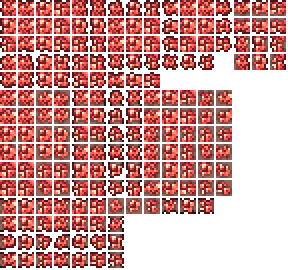
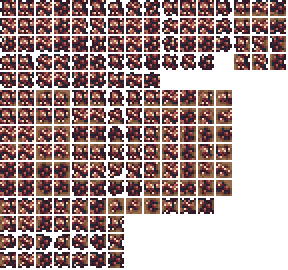
outbreak changes, lienar actuators/relic shard resprites

diff --git a/NPCs/DestinyGlobalNPC.cs b/NPCs/DestinyGlobalNPC.cs
@@ -19,6 +19,8 @@ namespace TheDestinyMod.NPCs
         public bool necroticRot;
         public int highlightedTime;
         public Player necroticApplier;
+        public int outbreakHits;
+        public int outbreakCounter;
 
         public override bool InstancePerEntity => true;
 
@@ -27,6 +29,15 @@ namespace TheDestinyMod.NPCs
             conducted = false;
             stasisFrozen = false;
             necroticRot = false;
+        }
+
+        public override bool PreAI(NPC npc) {
+            if (outbreakCounter > 0) {
+                outbreakCounter--;
+                if (outbreakCounter <= 0)
+                    outbreakHits = 0;
+            }
+            return base.PreAI(npc);
         }
 
         public override void NPCLoot(NPC npc) {
@@ -50,12 +61,18 @@ namespace TheDestinyMod.NPCs
         }
 
         public override bool PreNPCLoot(NPC npc) {
+            bool WormSegmentsAlive() {
+                for (int i = 0; i < Main.maxNPCs; i++) {
+                    NPC check = Main.npc[i];
+                    if (check.active && check.lifeMax > 0 && check.whoAmI != npc.whoAmI && (check.type == NPCID.EaterofWorldsBody || check.type == NPCID.EaterofWorldsHead || check.type == NPCID.EaterofWorldsTail)) {
+                        return true;
+                    }
+                }
+                return false;
+            }
             switch (npc.type) {
                 case NPCID.KingSlime when !NPC.downedSlimeKing:
                 case NPCID.EyeofCthulhu when !NPC.downedBoss1:
-                case NPCID.EaterofWorldsBody when !NPC.downedBoss2:
-                case NPCID.EaterofWorldsHead when !NPC.downedBoss2:
-                case NPCID.EaterofWorldsTail when !NPC.downedBoss2:
                 case NPCID.BrainofCthulhu when !NPC.downedBoss2:
                 case NPCID.QueenBee when !NPC.downedQueenBee:
                 case NPCID.SkeletronHead when !NPC.downedBoss3:
@@ -70,6 +87,13 @@ namespace TheDestinyMod.NPCs
                 case NPCID.CultistBoss when !NPC.downedAncientCultist:
                 case NPCID.MoonLordCore when !NPC.downedMoonlord:
                     Item.NewItem((int)npc.position.X, (int)npc.position.Y, npc.width, npc.height, ModContent.ItemType<Items.ExoticCipher>());
+                    break;
+                case NPCID.EaterofWorldsBody when !NPC.downedBoss2:
+                case NPCID.EaterofWorldsHead when !NPC.downedBoss2:
+                case NPCID.EaterofWorldsTail when !NPC.downedBoss2:
+                    if (!WormSegmentsAlive()) {
+                        Item.NewItem((int)npc.position.X, (int)npc.position.Y, npc.width, npc.height, ModContent.ItemType<Items.ExoticCipher>());
+                    }
                     break;
             }
             if (npc.type == NPCID.EyeofCthulhu && !NPC.downedBoss1) {

diff --git a/Projectiles/Ranged/OutbreakBullet.cs b/Projectiles/Ranged/OutbreakBullet.cs
@@ -2,7 +2,7 @@
 using Terraria;
 using Terraria.ID;
 using Terraria.ModLoader;
-using TheDestinyMod.Buffs;
+using TheDestinyMod.NPCs;
 
 namespace TheDestinyMod.Projectiles.Ranged
 {
@@ -27,10 +27,16 @@ namespace TheDestinyMod.Projectiles.Ranged
         }
 
         public override void OnHitNPC(NPC target, int damage, float knockback, bool crit) {
-            if (!target.friendly && target.damage > 0 && target.life <= 0 && (crit || Main.rand.NextBool(5))) {
-                for (int k = 0; k < 4; k++) {
-                    Vector2 velocity = Main.rand.NextVector2Unit() * Utils.NextFloat(Main.rand, 3f, 5f);
-                    Projectile.NewProjectile(target.position, velocity, ModContent.ProjectileType<SIVANanite>(), 20, 0, Main.LocalPlayer.whoAmI);
+            if (!target.friendly && target.damage > 0) {
+                DestinyGlobalNPC dNPC = target.GetGlobalNPC<DestinyGlobalNPC>();
+                dNPC.outbreakHits++;
+                dNPC.outbreakCounter = 60;
+                if ((crit && target.life <= 0) || dNPC.outbreakHits >= 12) {
+                    dNPC.outbreakHits = 0;
+                    for (int k = 0; k < 4; k++) {
+                        Vector2 velocity = Main.rand.NextVector2Unit() * Utils.NextFloat(Main.rand, 3f, 5f);
+                        Projectile.NewProjectile(target.position, velocity, ModContent.ProjectileType<SIVANanite>(), 20, 0, Main.LocalPlayer.whoAmI);
+                    }
                 }
             }
         }

diff --git a/Items/Weapons/Ranged/OutbreakPerfected.cs b/Items/Weapons/Ranged/OutbreakPerfected.cs
@@ -11,7 +11,7 @@ namespace TheDestinyMod.Items.Weapons.Ranged
     public class OutbreakPerfected : ModItem 
     {
         public override void SetStaticDefaults() {
-            Tooltip.SetDefault("Three round burst\nCreates nanite swarms on critical kills\n\"~directive = KILL while enemies = PRESENT: execute(directive)~\"");
+            Tooltip.SetDefault("Three round burst\nCreates nanite swarms on critical kills and rapid hits\n\"~directive = KILL while enemies = PRESENT: execute(directive)~\"");
         }
 
 		public override void SetDefaults() {
@@ -23,8 +23,8 @@ namespace TheDestinyMod.Items.Weapons.Ranged
 			item.useAnimation = 18;
 			item.useStyle = ItemUseStyleID.HoldingOut;
 			item.noMelee = true;
-			item.knockBack = 6;
-			item.crit = 6;
+			item.knockBack = 0;
+			item.crit = 2;
 			item.value = Item.buyPrice(0, 1, 0, 0);
 			item.rare = ItemRarityID.LightRed;
 			item.UseSound = mod.GetLegacySoundSlot(SoundType.Item, "Sounds/Item/OutbreakPerfected");

diff --git a/Projectiles/SIVANanite.cs b/Projectiles/SIVANanite.cs
@@ -28,6 +28,8 @@ namespace TheDestinyMod.Projectiles
 
         public override void AI() {
 			projectile.localAI[1]++;
+            if (projectile.localAI[1] < 20)
+                return;
 			bool target = projectile.HomeInOnNPC(200f, 15f, false);
 			if (!target && projectile.alpha < 200 && projectile.velocity.Y > 0f) {
                 projectile.velocity.Y--;
@@ -47,6 +49,11 @@ namespace TheDestinyMod.Projectiles
             projectile.rotation += 0.1f;
 			projectile.Center = projectile.Center + Vector2.UnitX.RotatedBy(projectile.rotation, Vector2.Zero) * 0.5f;
 		}
+
+        public override void ModifyDamageHitbox(ref Rectangle hitbox) {
+            if (projectile.localAI[1] < 20)
+                hitbox = Rectangle.Empty;
+        }
 
         public override void PostDraw(SpriteBatch spriteBatch, Color lightColor) {
             Lighting.AddLight(projectile.Center, Color.Red.ToVector3() * 0.55f * Main.essScale);

diff --git a/Tiles/VoGTeleport.cs b/Tiles/VoGTeleport.cs
@@ -13,8 +13,8 @@ namespace TheDestinyMod.Tiles
             Main.tileSolid[Type] = true;
             Main.tileBlockLight[Type] = true;
             Main.tileLighted[Type] = true;
-            minPick = 500;
-            mineResist = 200f;
+            minPick = 50; //500
+            mineResist = 2f; //200
             AddMapEntry(new Color(255, 255, 0));
             soundType = SoundID.Tink;
         }

diff --git a/Items/Weapons/Ranged/GravitonLance.cs b/Items/Weapons/Ranged/GravitonLance.cs
@@ -26,7 +26,7 @@ namespace TheDestinyMod.Items.Weapons.Ranged
 			item.noMelee = true;
 			item.knockBack = 4;
 			item.value = Item.buyPrice(0, 1, 0, 0);
-			item.rare = ItemRarityID.Yellow;
+			item.rare = ItemRarityID.Orange;
 			item.UseSound = mod.GetLegacySoundSlot(SoundType.Item, "Sounds/Item/GravitonLance");
 			item.shoot = 10;
 			item.shootSpeed = 16f;

diff --git a/Items/Weapons/Magic/BorealisMagic.cs b/Items/Weapons/Magic/BorealisMagic.cs
@@ -28,7 +28,7 @@ namespace TheDestinyMod.Items.Weapons.Magic
 			item.noMelee = true;
 			item.knockBack = 4;
 			item.value = Item.buyPrice(0, 1, 0, 0);
-			item.rare = ItemRarityID.Yellow;
+			item.rare = ItemRarityID.Pink;
 			item.UseSound = mod.GetLegacySoundSlot(SoundType.Item, "Sounds/Item/BorealisMagic");
 			item.autoReuse = false;
 			item.shoot = 10;

diff --git a/Items/Weapons/Melee/BorealisMelee.cs b/Items/Weapons/Melee/BorealisMelee.cs
@@ -28,7 +28,7 @@ namespace TheDestinyMod.Items.Weapons.Melee
 			item.noMelee = true;
 			item.knockBack = 4;
 			item.value = Item.buyPrice(0, 1, 0, 0);
-			item.rare = ItemRarityID.Yellow;
+			item.rare = ItemRarityID.Pink;
 			item.UseSound = mod.GetLegacySoundSlot(SoundType.Item, "Sounds/Item/BorealisMelee");
 			item.autoReuse = false;
 			item.shoot = 10;

diff --git a/Items/Weapons/Ranged/JadeRabbit.cs b/Items/Weapons/Ranged/JadeRabbit.cs
@@ -27,7 +27,7 @@ namespace TheDestinyMod.Items.Weapons.Ranged
 			item.noMelee = true;
 			item.knockBack = 4;
 			item.value = Item.buyPrice(0, 1, 0, 0);
-			item.rare = ItemRarityID.Yellow;
+			item.rare = ItemRarityID.Orange;
 			item.UseSound = mod.GetLegacySoundSlot(SoundType.Item, "Sounds/Item/JadeRabbit");
 			item.autoReuse = false;
 			item.shoot = 10;

diff --git a/Items/Weapons/Ranged/Gjallarhorn.cs b/Items/Weapons/Ranged/Gjallarhorn.cs
@@ -26,7 +26,7 @@ namespace TheDestinyMod.Items.Weapons.Ranged
 			item.noMelee = true;
 			item.knockBack = 4;
 			item.value = Item.buyPrice(0, 1, 0, 0);
-			item.rare = ItemRarityID.Yellow;
+			item.rare = ItemRarityID.Red;
 			item.UseSound = mod.GetLegacySoundSlot(SoundType.Item, "Sounds/Item/Gjallarhorn");
 			item.autoReuse = true;
 			item.shoot = 10;

diff --git a/Items/Weapons/Ranged/BorealisRanged.cs b/Items/Weapons/Ranged/BorealisRanged.cs
@@ -29,7 +29,7 @@ namespace TheDestinyMod.Items.Weapons.Ranged
 			item.noMelee = true;
 			item.knockBack = 4;
 			item.value = Item.buyPrice(0, 1, 0, 0);
-			item.rare = ItemRarityID.Yellow;
+			item.rare = ItemRarityID.Pink;
 			item.UseSound = mod.GetLegacySoundSlot(SoundType.Item, "Sounds/Item/Borealis");
 			item.autoReuse = false;
 			item.shoot = 10;

diff --git a/Items/Weapons/Magic/Jotunn.cs b/Items/Weapons/Magic/Jotunn.cs
@@ -28,7 +28,7 @@ namespace TheDestinyMod.Items.Weapons.Magic
 			item.noMelee = true;
 			item.knockBack = 4;
 			item.value = Item.buyPrice(0, 1, 0, 0);
-			item.rare = ItemRarityID.Yellow;
+			item.rare = ItemRarityID.LightRed;
 			item.shoot = ModContent.ProjectileType<Projectiles.Magic.JotunnShot>();
 			item.shootSpeed = 14f;
 			item.scale = 0.8f;
